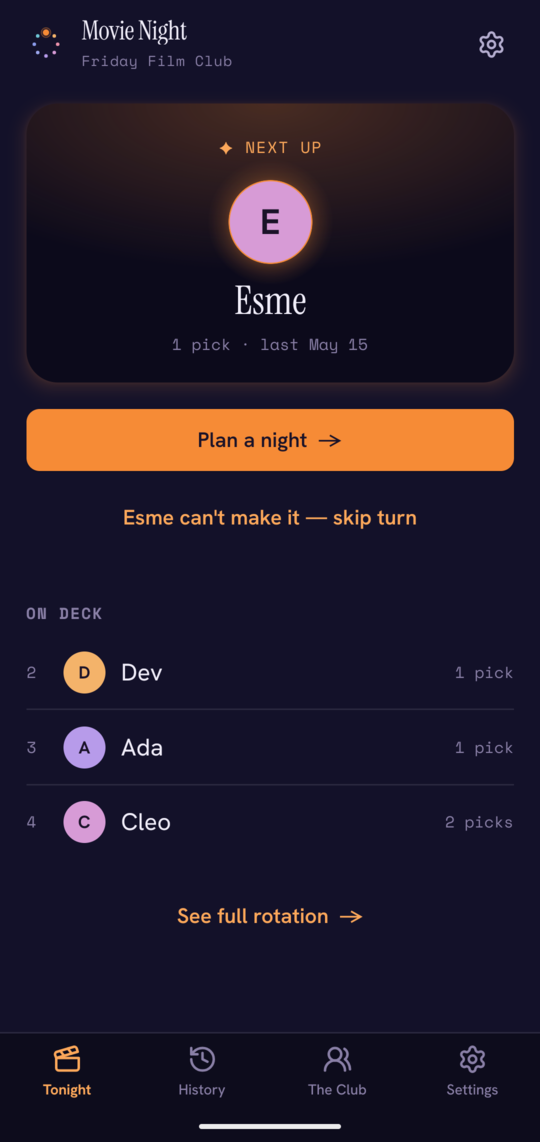
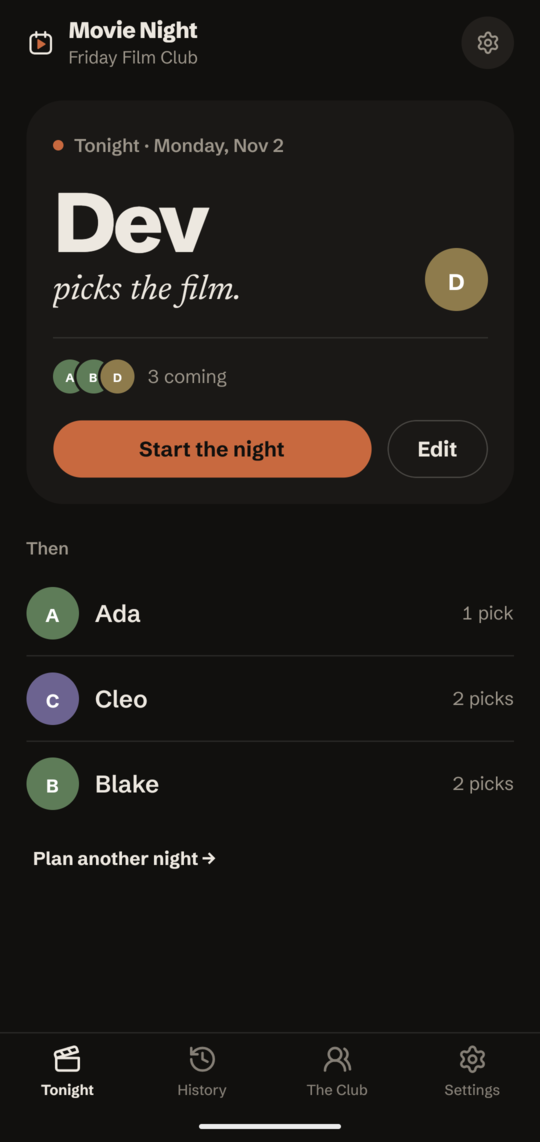
Retake the README screenshots in the Spotlight, refined design
The three showcase shots (Tonight, planning who's coming, History) still
showed the old purple-and-orange Spotlight theme. Retake them on the
phone in the new warm true-black theme, cropped and sized as before
(540x1142, no status bar), and update the alt text to the new content.

diff --git a/README.md b/README.md
@@ -11,11 +11,11 @@
 </p>
 
 <p align="center">
-  <img src="docs/screenshots/tonight.png" width="250" alt="Tonight: Esme is next up to pick, with Dev, Ada and Cleo on deck">
+  <img src="docs/screenshots/tonight.png" width="250" alt="Tonight: Dev picks the film tonight, with Ada, Cleo and Blake up next">
   &nbsp;
-  <img src="docs/screenshots/plan-who.png" width="250" alt="Planning a night: Esme is out, so Dev gets the pick">
+  <img src="docs/screenshots/plan-who.png" width="250" alt="Planning a night: marking who's coming on Friday, and Ada gets the pick">
   &nbsp;
-  <img src="docs/screenshots/history.png" width="250" alt="History: past nights grouped by month, with posters, pickers and dates">
+  <img src="docs/screenshots/history.png" width="250" alt="History: nights grouped by month, with posters, pickers and dates">
 </p>
 
 Most movie apps help a group *agree* on a film. Movie Night does the opposite:
